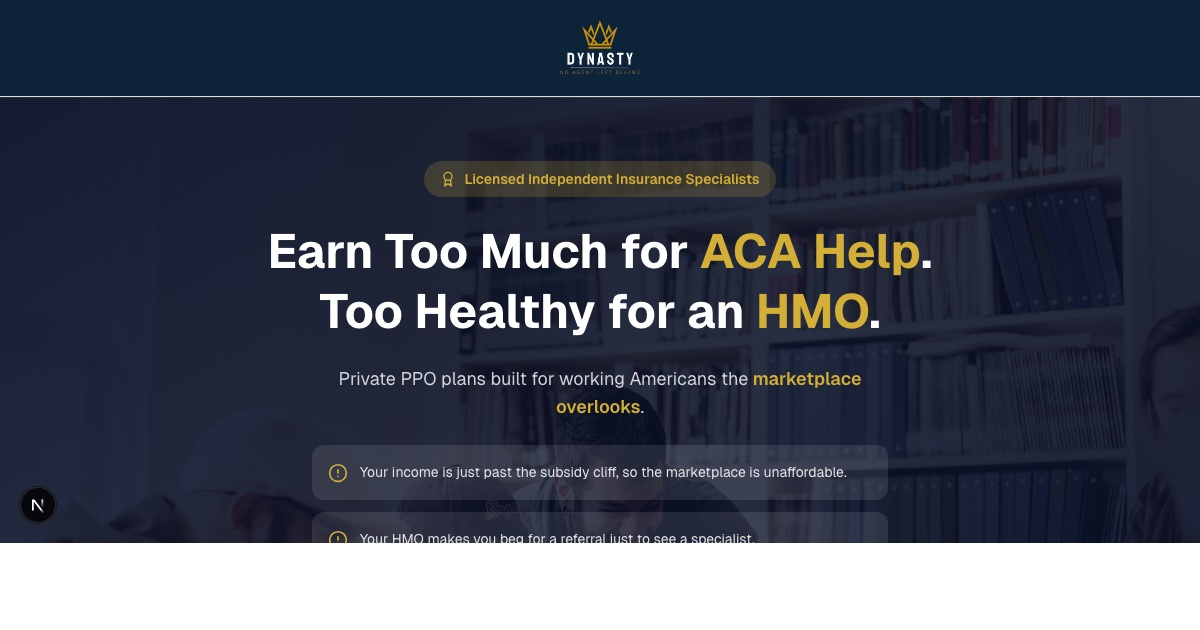
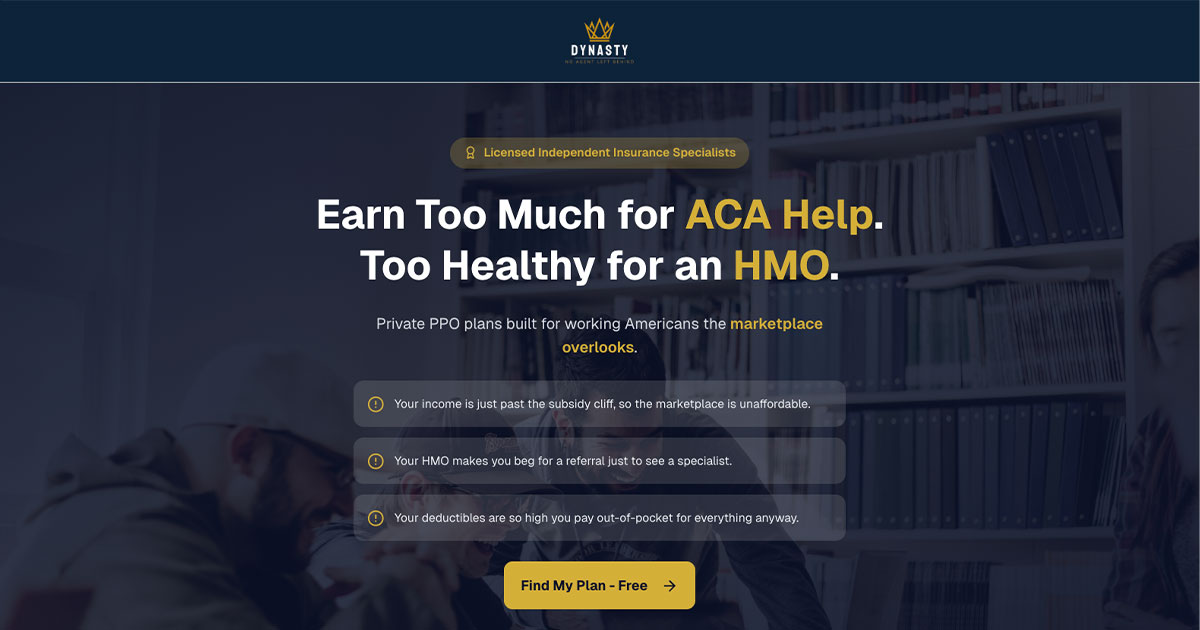
Refresh OG images to clean 1200x630 at the OG standard
All seven landing page OG screenshots were regenerated at the canonical
1200x630 OG ratio without the dev-only devtools indicator. Reset the home
metadata height from 551 back to 630 to match the new asset.

diff --git a/app/layout.tsx b/app/layout.tsx
@@ -45,7 +45,7 @@ export const metadata: Metadata = {
       {
         url: "/og/home.jpg",
         width: 1200,
-        height: 551,
+        height: 630,
         alt: "Dynasty Insurance Group: Real Coverage for the Earners the Marketplace Forgets",
         type: "image/jpeg",
       },
